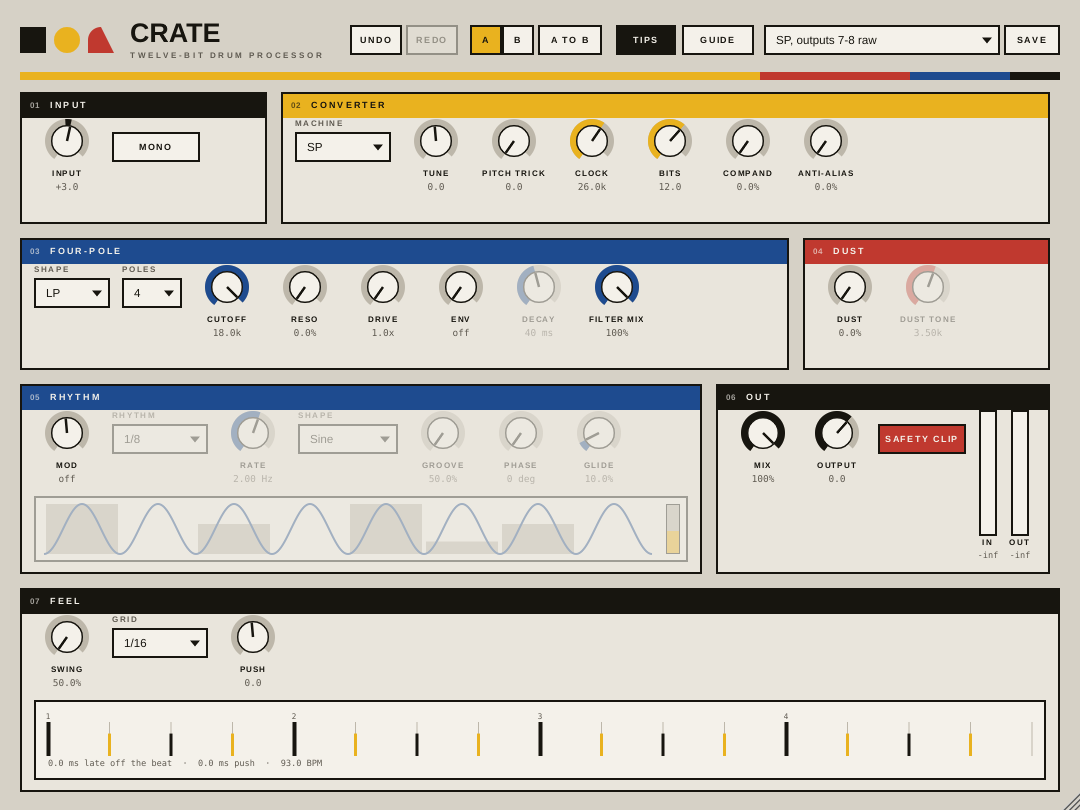
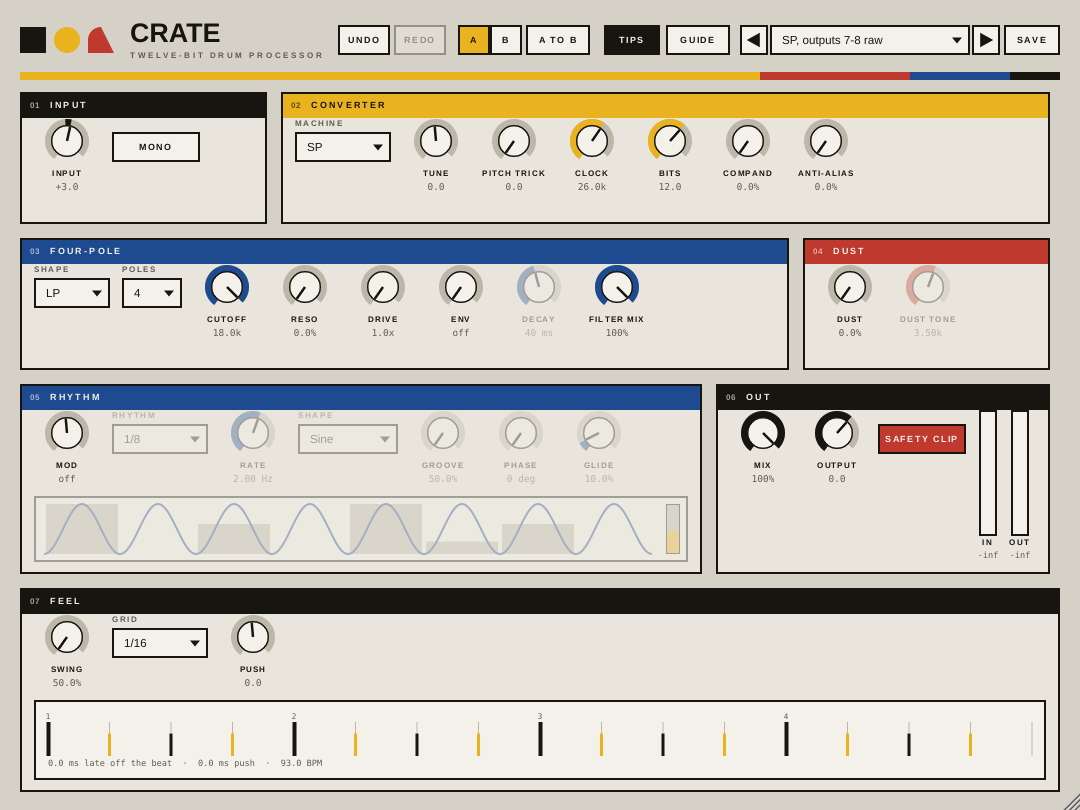
Site: current screenshots, the harmonic table, and the v0.1.1 download
The screenshots were from before today's changes. Both are re-rendered
from the current code (the preset arrows, the Harmonic table button), and
the harmonic table editor gets a picture of its own, mid-morph at 45%
(frame 2 at 65%, frame 3 at 35%). FRACTURE's text now mentions Table
mode, the anti-aliasing, 47 presets and the arrows; CRATE's the arrows.
Both Download buttons point at the v0.1.1 release, which CI published
with Fracture-and-Crate-0.1.1-macOS.dmg attached.

host_smoke zeroes the routed LFO before its Table screenshot, so the
picture is a steady position rather than wherever the LFO's phase fell.
The site test now expects three screenshots.

Claude-Session: https://claude.ai/code/session_01KP334hybwPxqhbVa1SmQKc

Changed region(s): [[0.3056, 0.0309, 0.825, 0.0926], [0.8861, 0.0309, 0.9167, 0.0617]]

diff --git a/plugins-site/src/index.html b/plugins-site/src/index.html
@@ -54,14 +54,17 @@
           ring at a musical note, a filter that moves in time with your song, and a modulation matrix
           to animate any of it.</p>
           <ul>
-            <li>Fourteen drive modes, from tube and tape warmth to wave folding, wrapping and bit
-              destruction, in two stages per band</li>
+            <li>Fifteen drive modes, from tube and tape warmth to wave folding, wrapping and bit
+              destruction, in two stages per band, all anti-aliased where it matters</li>
+            <li>Table mode: draw the harmonics yourself, like a wavetable, in four frames, and
+              sweep between them with an LFO for a wobbling harmonic movement</li>
             <li>Feedback that repeats in milliseconds, rings at a note in tune to a cent, or echoes
               on the beat, and can go back through the drive for growls</li>
             <li>A filter with clean, analogue and vintage circuits up to 48 dB, whose curve you can
               see and drag, and a rhythm that moves it in time</li>
             <li>Two LFOs, an envelope follower, a six-slot matrix, an XY pad and two macros</li>
-            <li>44 presets, levelled so switching compares sounds rather than volumes</li>
+            <li>47 presets, levelled so switching compares sounds rather than volumes, with arrows to
+              step through them</li>
             <li>Undo, A/B compare, and presets of your own, saved as plain files</li>
           </ul>
         </div>
@@ -79,6 +82,11 @@
           microphone through it; nothing is uploaded.</p>
         </div>
       </div>
+      <figure class="shot extra">
+        <a href="img/fracture-table.png" title="Open the full-size picture"><img src="img/fracture-table.png" width="1760" height="990" loading="lazy"
+             alt="FRACTURE's harmonic table: four frames of sixteen harmonic bars, a Position knob that morphs between them, and previews of the curve, a sine through it, and the harmonics that come out"></a>
+        <figcaption>The harmonic table: draw a frame, draw another, and let an LFO move between them.</figcaption>
+      </figure>
     </article>
 
     <!-- ================================================================ CRATE -->
@@ -105,7 +113,8 @@
             <li>A four-pole filter that each drum hit opens and lets close, like the SP's first
               two outputs, plus a rhythm that moves it in time</li>
             <li>Dust, swing and push that follow your DAW's grid</li>
-            <li>26 presets, undo, A/B compare, and presets of your own</li>
+            <li>26 presets with arrows to step through them, undo, A/B compare, and presets of your
+              own</li>
           </ul>
         </div>
         <div>

diff --git a/plugins-site/src/site.css b/plugins-site/src/site.css
@@ -66,6 +66,8 @@ a:focus-visible,.btn:focus-visible{outline:3px solid var(--blue);outline-offset:
 /* ---------- a plugin */
 .plugin .shot{border-bottom:2px solid var(--ink);background:var(--ground)}
 .plugin .shot img{width:100%}
+.plugin .shot.extra{margin:0;border-top:2px solid var(--ink);border-bottom:0}
+.plugin .shot.extra figcaption{padding:10px 22px 14px;font-size:13px;color:var(--dim);background:var(--panel)}
 .plugin .cols{display:grid;grid-template-columns:minmax(0,1.4fr) minmax(0,1fr);gap:32px}
 @media (max-width:860px){ .plugin .cols{grid-template-columns:minmax(0,1fr);gap:20px} }
 .plugin h3{font:900 32px/1 var(--black);margin:0 0 4px;letter-spacing:-.01em}

diff --git a/plugin/tests/host_smoke.cpp b/plugin/tests/host_smoke.cpp
@@ -549,6 +549,9 @@ int main(int argc, char** argv){
                     // a picture of it, with a band on Table and the LFO moving
                     if (auto* m = proc.apvts.getParameter("m0a")) m->setValueNotifyingHost(m->convertTo0to1(static_cast<float>(fracture::Mode::Table)));
                     if (auto* q = proc.apvts.getParameter("tblPos")) q->setValueNotifyingHost(q->convertTo0to1(45.0f));
+                    // the LFO the button routed would pull the picture wherever its
+                    // phase happens to be; with it at zero the shot is a steady 45%
+                    if (auto* q = proc.apvts.getParameter("mA0")) q->setValueNotifyingHost(q->convertTo0to1(0.0f));
                     runBlocks(proc, 40, 256, peak, bad);
                     juce::Image tshot(juce::Image::ARGB, w, h, true);
                     { juce::Graphics g(tshot); editor->paintEntireComponent(g, true); }

diff --git a/README.md b/README.md
@@ -6,7 +6,7 @@ Two audio effect plugins, built with JUCE as Audio Unit, VST3 and a standalone a
   Minimal Audio's Rift. It splits the sound into up to three bands, each with two drive
   stages and fourteen modes. It also has a crusher, feedback that can ring at a note, an
   analogue-style filter with a rhythm and a drawn response, a modulation matrix, an XY pad
-  and macros. It has 44 presets.
+  and macros, and a Table mode whose harmonics you draw. It has 47 presets.
 - **CRATE** (`crate/`) is a twelve-bit drum processor after the SP-1200 and Akai S900: the
   two machines' converters, the pitch trick, a hit-opened four-pole filter, a rhythm, dust,
   and swing against the host's grid. It has 26 presets.

diff --git a/plugins-site/README.md b/plugins-site/README.md
@@ -43,8 +43,8 @@ a failure. Use it before you publish.
 
 ## Publishing it
 
-`site.json` already points both Download buttons at the v0.1.0 release, which CI built
-(`Fracture-and-Crate-0.1.0-macOS.dmg`, one image holding both plugins). That link only
+`site.json` already points both Download buttons at the v0.1.1 release, which CI built
+(`Fracture-and-Crate-0.1.1-macOS.dmg`, one image holding both plugins). That link only
 works for the public once **the repository is public**. While it is private, visitors get a
 404 from GitHub.
 
